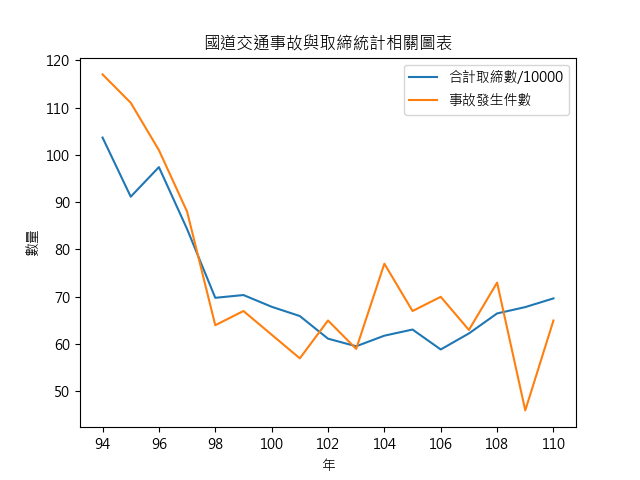
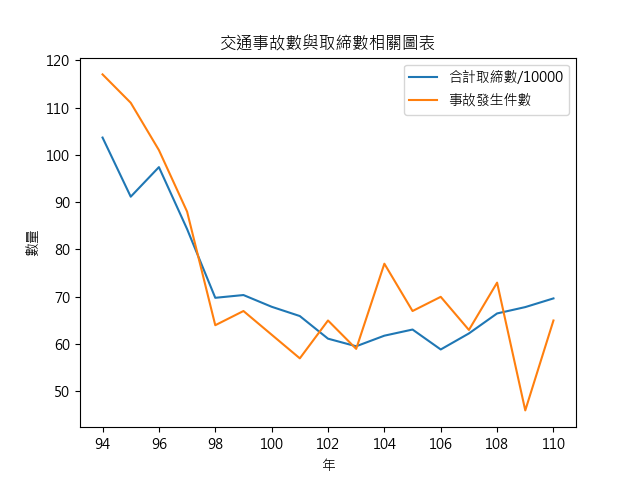
12/20

Changed region(s): [[0.3125, 0.0625, 0.7188, 0.125]]

diff --git a/main.py b/main.py
@@ -1,4 +1,3 @@
-
 import pandas as pd
 import matplotlib.pyplot as plt
 plt.rcParams['font.sans-serif'] = ['Microsoft JhengHei']
@@ -33,6 +32,8 @@ del data2['死亡率']
 del data2['受傷人數']
 del data2['受傷率']
 del data2['死亡人數']
+
+# Rename the column[事故發生件數] of data2
 data2['事故發生件數'] = data2['發生件數']
 del data2['發生件數']
 
@@ -53,7 +54,7 @@ data.plot(x='年別', kind='line')
 # Set the x-axis label, y-axis label, and the chart title
 plt.xlabel('年')
 plt.ylabel('數量')
-plt.title('國道交通事故與取締統計相關圖表')
+plt.title('交通事故數與取締數相關圖表')
 plt.legend()
 plt.savefig('output.png')
 plt.show()
